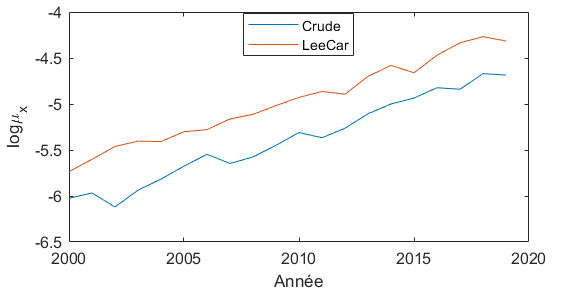
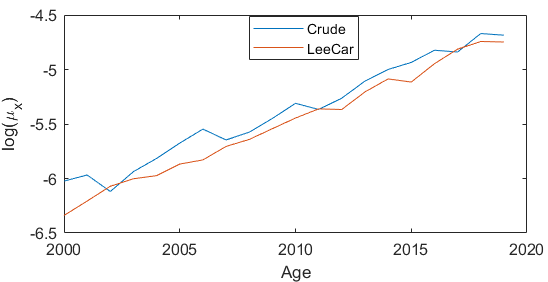
tarification part 1

diff --git a/test_code.m b/test_code.m
@@ -31,11 +31,20 @@ kapha = kap_b(date_cohor:end,:);
 ext = expected_life_cohor(alph,betha,kapha,kap_p_b,B); %you have to finish this by adding last sum
 
 %% Projecting
-[m_pro, k_t] = projection(date_lc,ages_lc,k,t1_p,bet, kap,60);
+[m_pro, kap_pro] = projection(date_lc,ages_lc,k,t1_p,bet, kap,60);
 %% Plot IC for kappa and diff tranjectories
-multiple_path(date_lc,ages_lc,k,50,t1_p,bet, kap,50); %plus sigma est grand, plus il y'a du bruit
+[ma, kap_pro_n]=multiple_path(date_lc,ages_lc,k,B,t1_p,bet, kap,50); %plus sigma est grand, plus il y'a du bruit
 %50 years in 2000
 %% Bootstrap vs Projection
 [ku ,kd] = boot_vs_proj(date_lc,t1_p,kap_p_b,kap,k,50);
+%% TARIFICATIONNNN: Strange The APV for non smoking people is high
+%pro =  p(50,10,alp,be,kap_pro,ages_lc,date_lc); %no need for kap bcoz we
+%have historical data
+[vap,vr] = tarification(0.02,2000,2010,50,alp,bet,kap_pro_n,ages_lc,date_lc,0.9);
+%lo = [tarification(0.02,2000,2010,50,alp,bet,kap_pro_n,ages_lc,date_lc,1), tarification(0.02,2001,2010,51,alp,bet,kap_pro_n,ages_lc,date_lc,1)];
+%% Solvency: calculate SCR
+apv_nd = tarification(0.02,2000,2010,50,alp,bet,kap_pro,ages_lc,date_lc,1);
+apv = [tarification(0.02,2000,2010,50,alp,bet,kap_pro_n,ages_lc,date_lc,1), tarification(0.02,2001,2010,51,alp,bet,kap_pro_n,ages_lc,date_lc,1)];
+[scr, dBOF] = solvency(apv_nd,apv,B);
 
 

diff --git a/tarification.m b/tarification.m
@@ -1,0 +1,27 @@
+function [vap,vr] = tarification(taux,sub_year,start_year,age,alp,bet,kap_p,ages,dates,gama)% deferred annuity: subcription on sub_year and start 
+%start_year;
+%  gama is to consider percentage of death rate: e.g: gama = 0.9 mean
+%  people are dying 10% less than normal
+%----------
+  global Data
+  
+  v = 1/(1+taux);
+  vap = zeros(1,length(kap_p(1,:))); vr = 0;
+  t = start_year-sub_year;
+  t1 = 109-age;
+  date_of_age = start_year;
+  histo_data = dates(2)-date_of_age;
+  % -----Extract historical death rate-------
+  index_hist = zeros(1,histo_data);
+  for year=date_of_age:dates(2)
+    index_hist(year-date_of_age+1) = find(Data.Year == year,1)+age; %index of peaple aged 50
+  end
+  %-------Compute APV ----
+  for simu = 1:length(kap_p(1,:)) %for all simulation of kappa
+    prime = 0;
+    for i = t:t1 %bcoz people will not survive at 109
+      prime = prime+ (v^i) * p(age,i,alp,bet,kap_p(:,simu),ages,dates,index_hist,date_of_age,gama);
+    end
+    vap(simu) = prime;
+  end
+end

diff --git a/p.m b/p.m
@@ -1,0 +1,22 @@
+function [prob] = p(age,t,alp,bet,kap_p,ages,dates,index_hist,date_of_age,gama)%ages=[age1 ages2]=range of ages
+%We are considering people aging "age" at date_of_age
+%give index of historical data,
+%gama = percentage of death rate
+  global Data
+  index_age = age-ages(1);
+  index_t = date_of_age-dates(1)+1;
+  histo_data = dates(2)-date_of_age;
+  i = 1;
+  prop = 1;
+  for ag= 1:t
+    index_age = index_age+1;
+    if ag<=histo_data %use historique kappa!!!!YOU MUST USE TRUE DATA, NOT MODEL FOR HISTORIC
+      %prob = prop*exp(-exp(alp(index_age)+bet(index_age)*kap(index_t)));
+      prob = prop*exp(-gama*Data.mx(index_hist(ag)+ag-1));
+      index_t = index_t+1;
+    else
+      prob = prop*exp(-gama*exp(alp(index_age)+bet(index_age)*kap_p(i)));
+      i = i+1;
+    end
+  end    
+end

diff --git a/projection.m b/projection.m
@@ -4,12 +4,11 @@ function [m_pro, k_t] = projection(dates,ages,n,t1,bet, kap,cohor)% project in n
 % Give t1, i.e year in wich kappa show linear trend
 %This will project kappa, death rate
 %Evaluate confidence interval on kappa death rate
-%Will also plot CI based on bootstrap
   global Data 
   z_alpha = 1.96;
   list_ages = ages(1):ages(2);
   list_dates = dates(1):dates(2);
-  k_t = zeros(1,n);% simulations in row for year n 
+  k_t = zeros(n,1);% simulations in row for year n 
   ktn = kap(length(kap)); %the last kappa
   t_line = (t1-dates(1));
   d = (kap(length(kap))- kap(t1-dates(1)))/(length(kap)-t_line);

diff --git a/solvency.m b/solvency.m
@@ -1,0 +1,23 @@
+function [scr,d_BOF] = solvency(apv_nd,apv,N)
+%apv_nd is from undifferenciation
+% To calculate BE_t, note that "ce qui reste à recevoir" has 5000 values
+% bcoz of different simulation
+% apv is a list containing PV of future benefits outgo: "ce qui reste à
+% payer en t". 
+  capital = 1+0.04;
+  actual = 1/(1+0.01);
+  
+  A_0 = apv_nd;
+  BE_0 =  apv(1:N)-0; % 10|a_50
+  BOF_0 = A_0 - BE_0;
+  
+  A_1 = A_0*capital;
+  BE_1 = apv(N+1:end); 
+  BOF_1 = A_1 - BE_1;
+  % DELTA BOF
+  d_BOF = BOF_0 - BOF_1./actual;
+  d_BOF(d_BOF<0) = 0;
+  
+  scr = quantile(d_BOF,0.995);
+  
+end

diff --git a/variables.m b/variables.m
@@ -6,9 +6,9 @@ Expo = readtable('expo_table.txt');
 z_alpha = 2.575;
 
 date_cohort = [2000 2019]; cohor = 50; % 50years  in 2000 for cohorte thing 
-date_lc = [1950 2019]; ages_lc = [0 100]; % for projection
+date_lc = [1950 2019]; ages_lc = [0 104]; % for projection
 t1_p = 1951; %date at wich kappa became is linear. for projection purpose. Must be between date_lc
-k = 25; %horizon de projection 
+k = 40; %horizon de projection, we are projecting k years. MAX 40years, bcoz if 41 we will consider age until 110
 
 max_iter = 600; tol = 1e-6;
-B = 2;
+B = 5;

diff --git a/leeCar_NR.m b/leeCar_NR.m
@@ -52,16 +52,16 @@ function [alp,kap,bet] = leeCar_NR(dates, ages,max_iter, tol)
     figure('name','ALPHA')
     plot(list_age,alp)
     ylabel('\alpha_{x}')
-    xlabel('ages')
+    xlabel('age')
   
     figure('name','BETTTA')
     plot(list_age,bet)
     ylabel('\beta_{x}')
-    xlabel('ages')
+    xlabel('age')
   
     figure('name','KAPPA')
     plot(list_period,kap)
     ylabel('\kappa_{x}')
-    xlabel('periodes')
+    xlabel('Année')
     
 end
